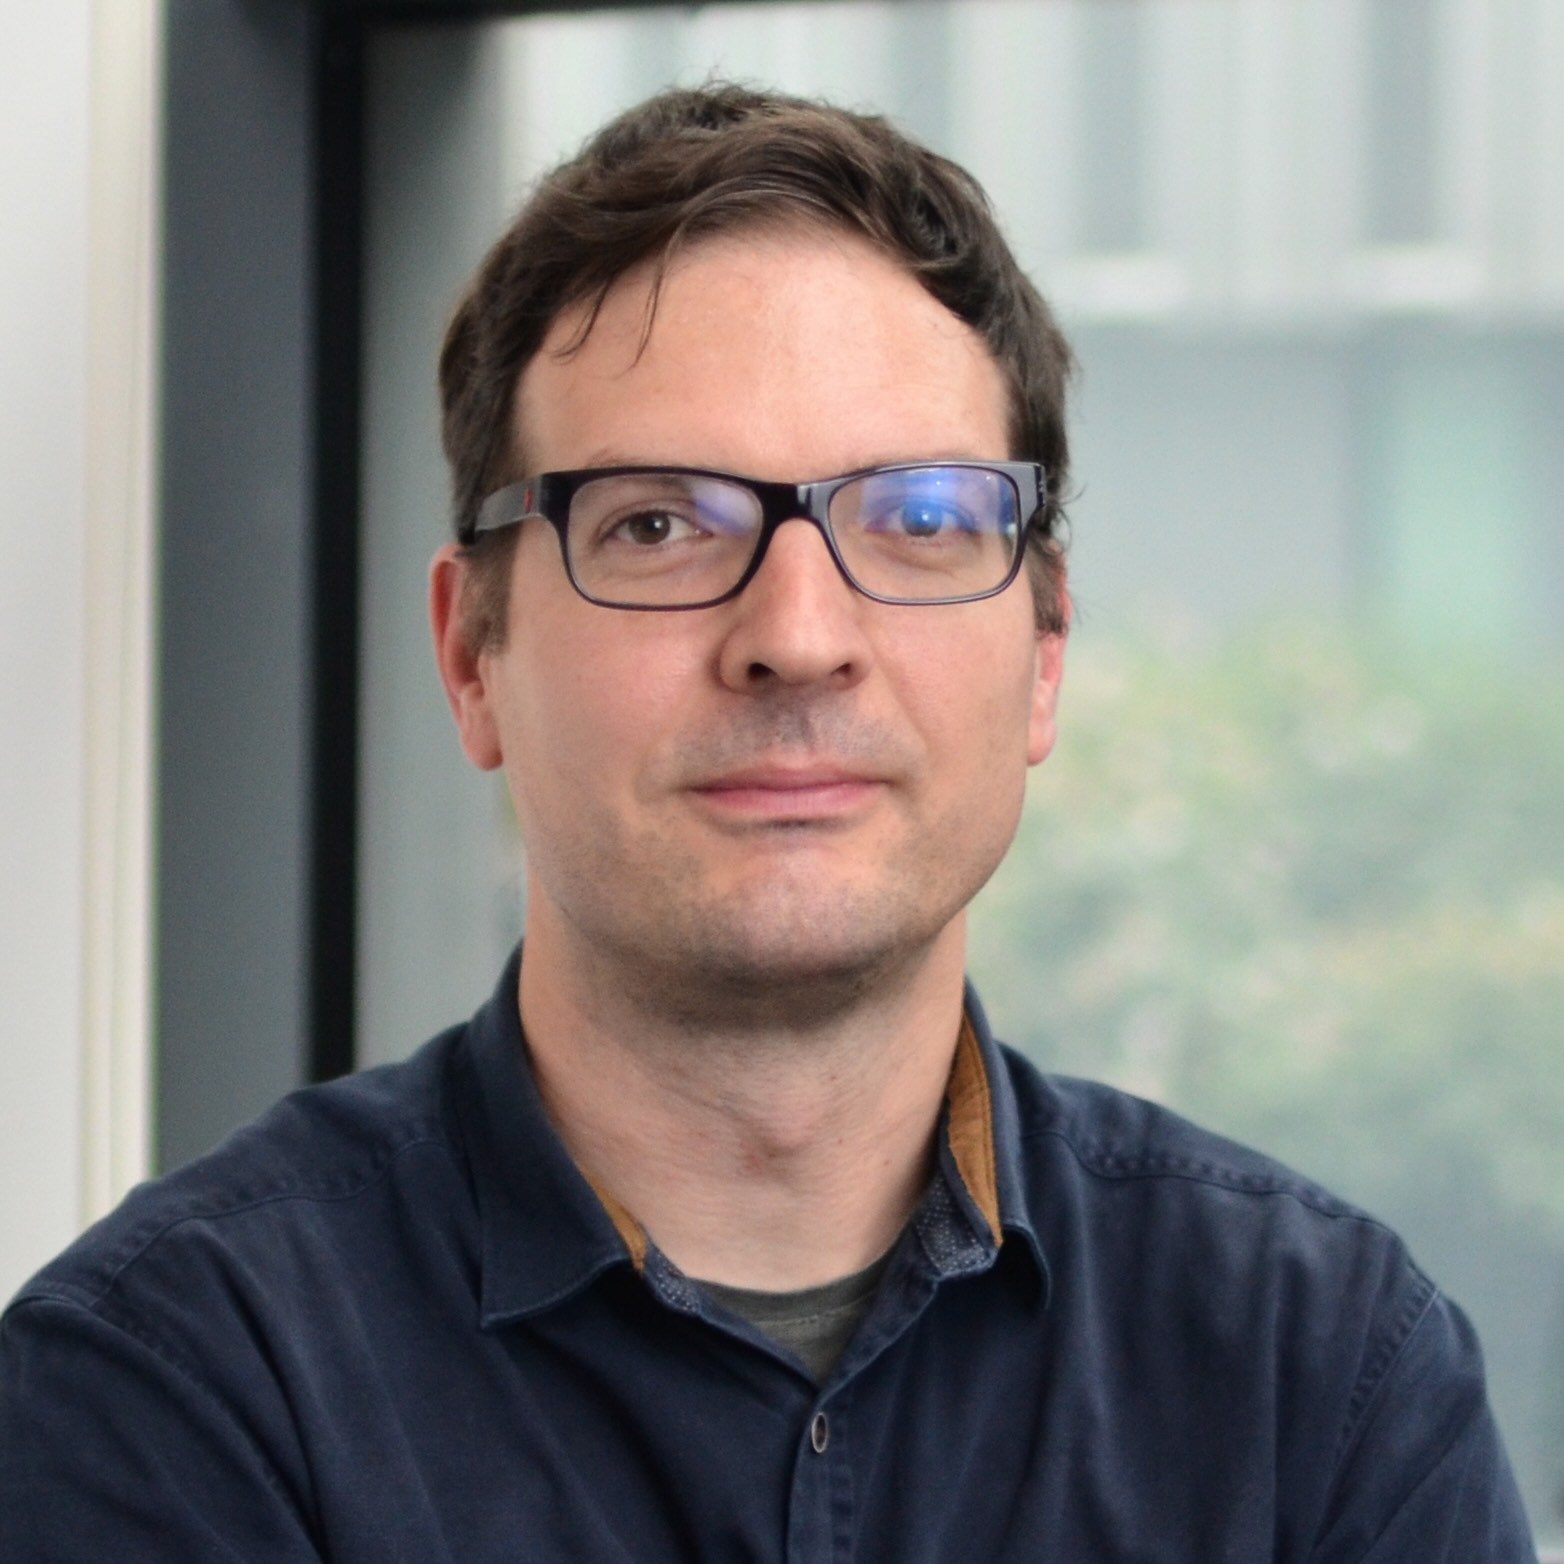
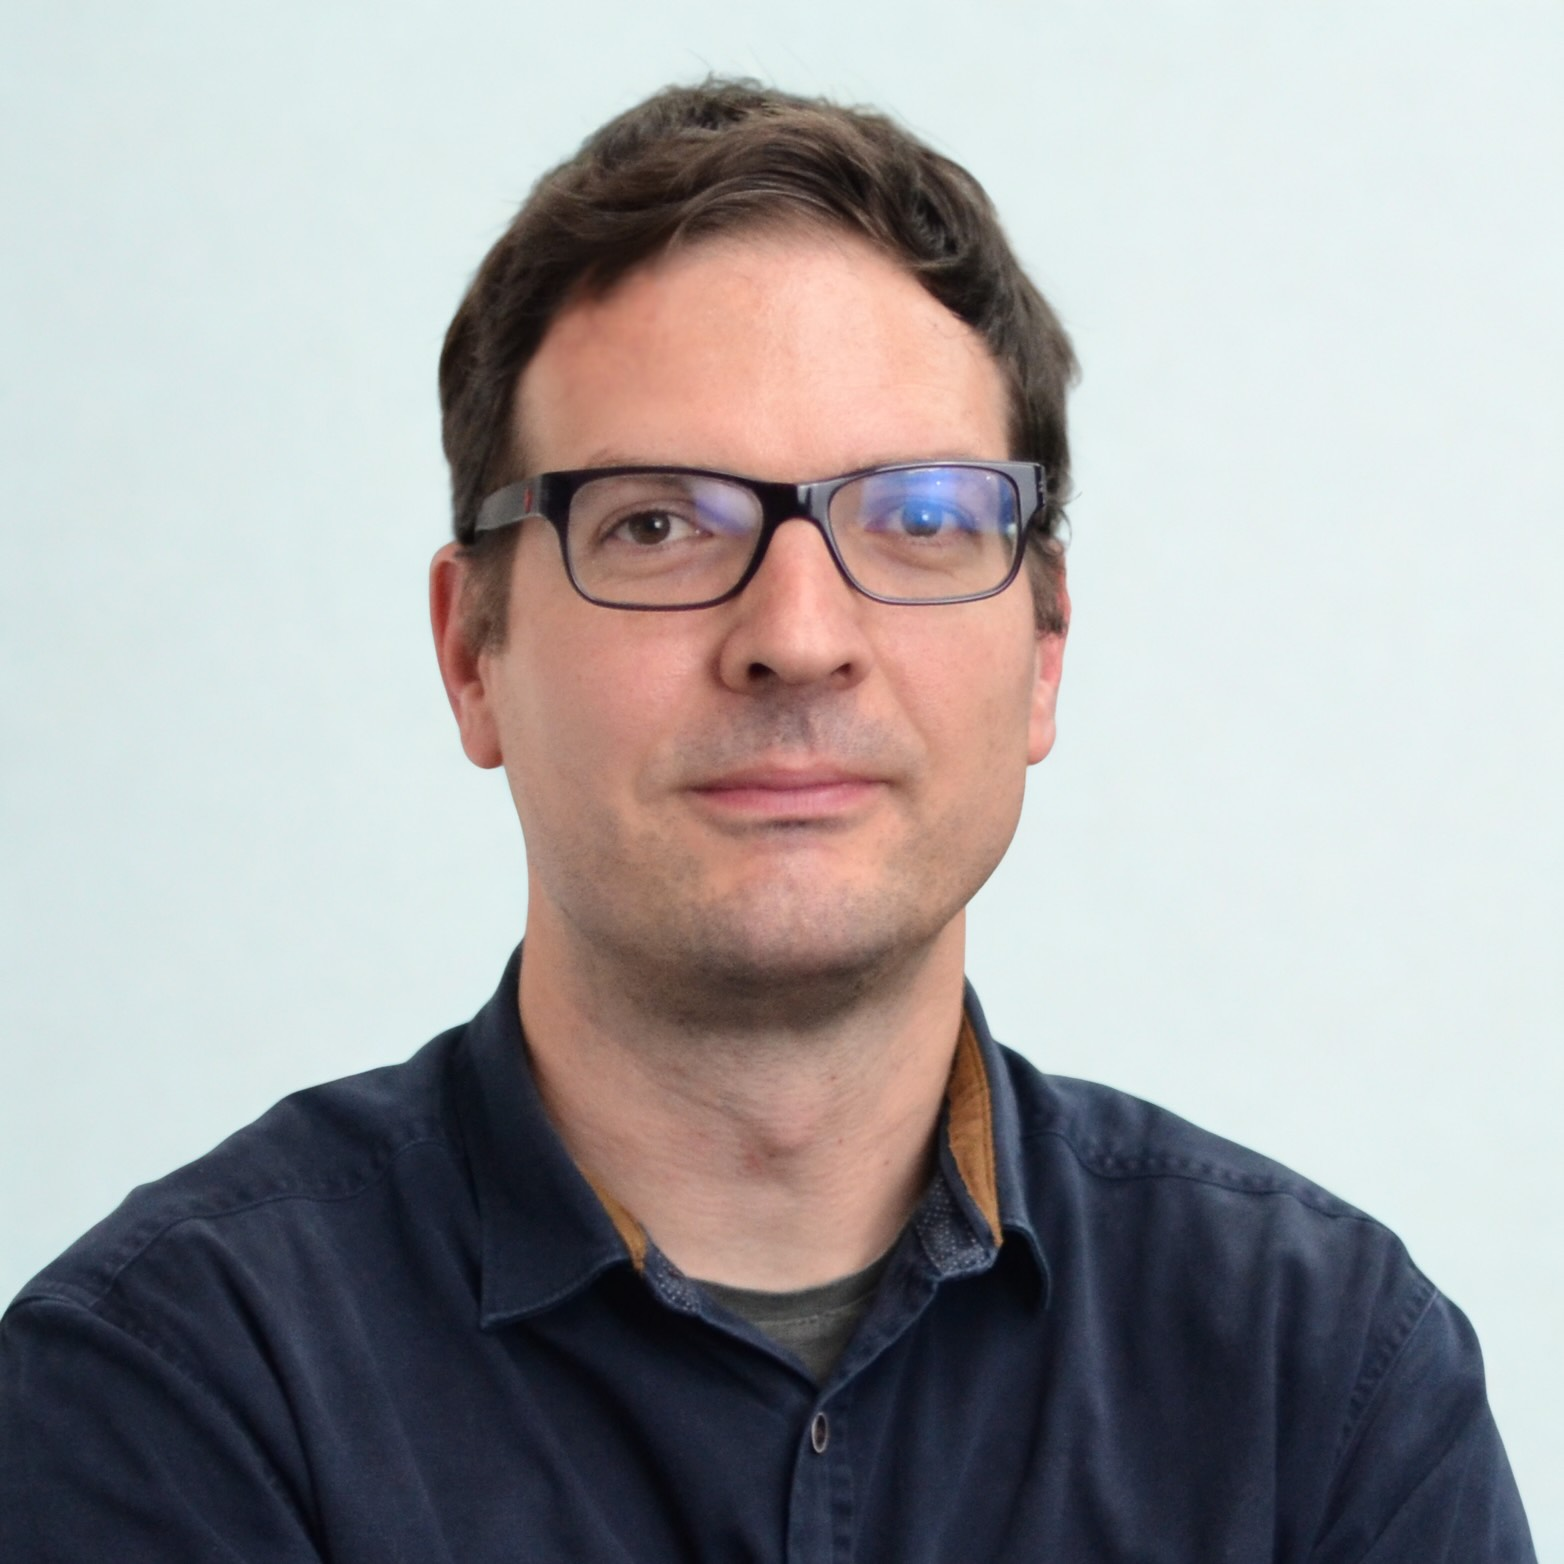
Updated profile image

diff --git a/docs/authors/index.html b/docs/authors/index.html
@@ -613,7 +613,7 @@
     class="border border-neutral-200 dark:border-neutral-700 border-2 rounded overflow-hidden shadow-2xl relative">
     
           
-            <div class="w-full thumbnail_card nozoom" style="background-image:url(/authors/jacint/feature_hu_89392282cfd25b92.jpg);"></div>
+            <div class="w-full thumbnail_card nozoom" style="background-image:url(/authors/jacint/feature_hu_c907cad82fc09195.jpg);"></div>
           
         
       <span class="absolute bottom-0 right-0 m-2">

diff --git a/docs/articles/cissp/i/20251011-gouvernance-de-la-securite/index.html b/docs/articles/cissp/i/20251011-gouvernance-de-la-securite/index.html
@@ -957,7 +957,7 @@ L’alignement stratégique entre sécurité et métier # Un des socles fondamen
         class="!mt-0 !mb-0 h-24 w-24 rounded-full me-4"
         width="96"
         height="96"
-        src="/img/profil_hu_ecd581ce8b994eb6.jpg">
+        src="/img/profil_hu_225ce8a9fa83cbbd.jpg">
     
   
   <div class="place-self-center">

diff --git a/docs/articles/cissp/i/20251014-la-gestion-des-risques-en-cybersecurite/index.html b/docs/articles/cissp/i/20251014-la-gestion-des-risques-en-cybersecurite/index.html
@@ -946,7 +946,7 @@ Identification détaillée des menaces et vulnérabilités # L’identification 
         class="!mt-0 !mb-0 h-24 w-24 rounded-full me-4"
         width="96"
         height="96"
-        src="/img/profil_hu_ecd581ce8b994eb6.jpg">
+        src="/img/profil_hu_225ce8a9fa83cbbd.jpg">
     
   
   <div class="place-self-center">

diff --git a/docs/articles/cissp/i/20251011-questions-legales-reglementaires-et-de-conformite-en-securite-de-l_information/index.html b/docs/articles/cissp/i/20251011-questions-legales-reglementaires-et-de-conformite-en-securite-de-l_information/index.html
@@ -1035,7 +1035,7 @@
         class="!mt-0 !mb-0 h-24 w-24 rounded-full me-4"
         width="96"
         height="96"
-        src="/img/profil_hu_ecd581ce8b994eb6.jpg">
+        src="/img/profil_hu_225ce8a9fa83cbbd.jpg">
     
   
   <div class="place-self-center">

diff --git a/docs/articles/cissp/i/20251010-les-5-piliers-de-la-securite/index.html b/docs/articles/cissp/i/20251010-les-5-piliers-de-la-securite/index.html
@@ -895,7 +895,7 @@
         class="!mt-0 !mb-0 h-24 w-24 rounded-full me-4"
         width="96"
         height="96"
-        src="/img/profil_hu_ecd581ce8b994eb6.jpg">
+        src="/img/profil_hu_225ce8a9fa83cbbd.jpg">
     
   
   <div class="place-self-center">

diff --git a/docs/articles/cissp/i/20251012-elaboration-documentation-et-mise-en-oeuvre-des-politiques-standards-procedures-et-lignes-directrices-de-securite/index.html b/docs/articles/cissp/i/20251012-elaboration-documentation-et-mise-en-oeuvre-des-politiques-standards-procedures-et-lignes-directrices-de-securite/index.html
@@ -914,7 +914,7 @@
         class="!mt-0 !mb-0 h-24 w-24 rounded-full me-4"
         width="96"
         height="96"
-        src="/img/profil_hu_ecd581ce8b994eb6.jpg">
+        src="/img/profil_hu_225ce8a9fa83cbbd.jpg">
     
   
   <div class="place-self-center">

diff --git a/docs/articles/cissp/i/20251012-investigation-en-cybersecurite/index.html b/docs/articles/cissp/i/20251012-investigation-en-cybersecurite/index.html
@@ -934,7 +934,7 @@
         class="!mt-0 !mb-0 h-24 w-24 rounded-full me-4"
         width="96"
         height="96"
-        src="/img/profil_hu_ecd581ce8b994eb6.jpg">
+        src="/img/profil_hu_225ce8a9fa83cbbd.jpg">
     
   
   <div class="place-self-center">

diff --git a/docs/articles/cissp/i/20251013-contribution-et-application-des-politiques-de-securite-du-personnel/index.html b/docs/articles/cissp/i/20251013-contribution-et-application-des-politiques-de-securite-du-personnel/index.html
@@ -934,7 +934,7 @@
         class="!mt-0 !mb-0 h-24 w-24 rounded-full me-4"
         width="96"
         height="96"
-        src="/img/profil_hu_ecd581ce8b994eb6.jpg">
+        src="/img/profil_hu_225ce8a9fa83cbbd.jpg">
     
   
   <div class="place-self-center">

diff --git a/docs/articles/cissp/i/20251013-la-continuite-d_activite-_-fondamentaux-pour-la-resilience-des-entreprises/index.html b/docs/articles/cissp/i/20251013-la-continuite-d_activite-_-fondamentaux-pour-la-resilience-des-entreprises/index.html
@@ -954,7 +954,7 @@
         class="!mt-0 !mb-0 h-24 w-24 rounded-full me-4"
         width="96"
         height="96"
-        src="/img/profil_hu_ecd581ce8b994eb6.jpg">
+        src="/img/profil_hu_225ce8a9fa83cbbd.jpg">
     
   
   <div class="place-self-center">

diff --git a/docs/articles/cissp/i/20251015-la-gestion-des-risques-de-la-chaine-d_approvisionnement/index.html b/docs/articles/cissp/i/20251015-la-gestion-des-risques-de-la-chaine-d_approvisionnement/index.html
@@ -894,7 +894,7 @@
         class="!mt-0 !mb-0 h-24 w-24 rounded-full me-4"
         width="96"
         height="96"
-        src="/img/profil_hu_ecd581ce8b994eb6.jpg">
+        src="/img/profil_hu_225ce8a9fa83cbbd.jpg">
     
   
   <div class="place-self-center">

diff --git a/docs/articles/cissp/i/20251016-sensibilisation-a-la-securite/index.html b/docs/articles/cissp/i/20251016-sensibilisation-a-la-securite/index.html
@@ -924,7 +924,7 @@
         class="!mt-0 !mb-0 h-24 w-24 rounded-full me-4"
         width="96"
         height="96"
-        src="/img/profil_hu_ecd581ce8b994eb6.jpg">
+        src="/img/profil_hu_225ce8a9fa83cbbd.jpg">
     
   
   <div class="place-self-center">
